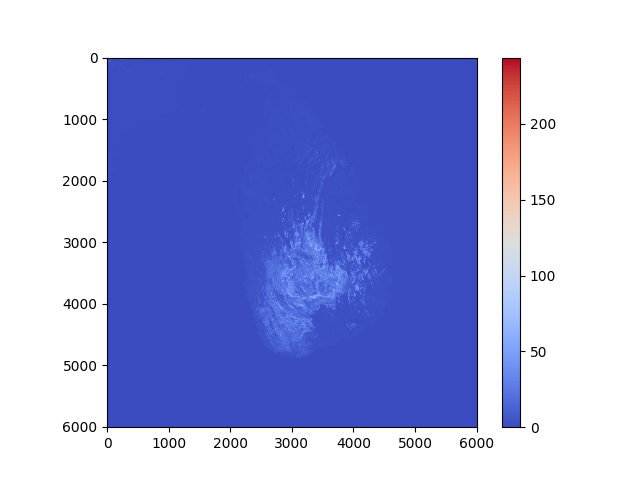
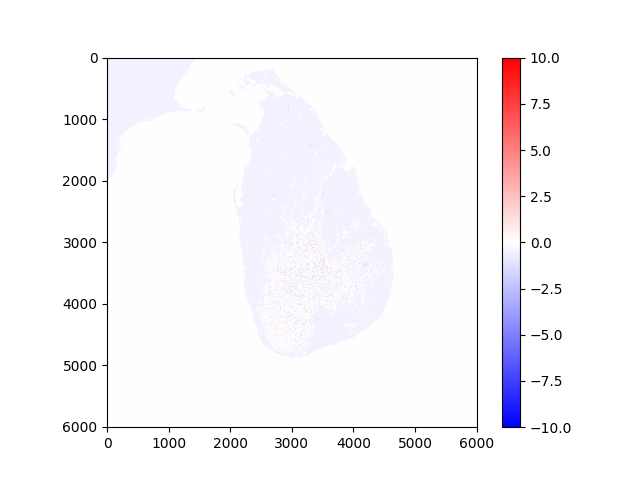
More examples

diff --git a/examples/example2-slope-map.py b/examples/example2-slope-map.py
@@ -1,21 +1,37 @@
-import os
 
 import matplotlib.pyplot as plt
 import numpy as np
-from utils import Log
-from utils_future import Example
+from scipy.ndimage import convolve
+
 from alt_lk import Alt
+from utils_future import Example
 
 
 def main():
     data = Alt.get_alt_data_for_lk()
     arr = np.array(data)
-    grad_x, grad_y = np.gradient(arr)
-    slope = np.sqrt(grad_x**2 + grad_y**2)
+
+    WIDTH = 1
+    N = 2 * WIDTH + 1
+    F2 = 1.0 * (N**2)
+    kernel = np.ones((N, N)) / F2
+
+    padded_arr = np.pad(arr, pad_width=WIDTH)
+    neighborhood_avg = convolve(
+        padded_arr, kernel, 
+    )
+    neighborhood_avg = neighborhood_avg[WIDTH:-WIDTH, WIDTH:-WIDTH]
+    slope = neighborhood_avg - arr 
     
-    plt.imshow(slope, cmap='coolwarm')
+    LIMIT = 10
+    slope[slope > LIMIT] = LIMIT
+    slope[slope < -LIMIT] = -LIMIT
+
+
+    plt.imshow(slope, cmap='bwr')
     plt.colorbar()
     Example.write(__file__)
+
 
 if __name__ == '__main__':
     main()

diff --git a/src/utils_future/Example.py b/src/utils_future/Example.py
@@ -1,20 +1,25 @@
-from utils import Log
 import os
+
 import matplotlib.pyplot as plt
+from utils import Log
 
 log = Log('examples')
 
+
 class Example:
-    @staticmethod 
+    @staticmethod
     def write(py_file_name: str):
         base_name = os.path.basename(py_file_name)
         image_path = os.path.join('examples', f'{base_name}.png')
         plt.savefig(image_path)
         log.info(f'Wrote {image_path}.')
+        os.startfile(image_path)
         plt.close()
 
-        print(f'''
+        print(
+            f'''
 ### [{base_name}](examples/{base_name})
 
 ![{base_name}](examples/{base_name}.png)
-        ''')
+        '''
+        )

diff --git a/examples/example1-map.py b/examples/example1-map.py
@@ -1,11 +1,10 @@
-import os
 
 import matplotlib.pyplot as plt
 import numpy as np
-from utils import Log
-from utils_future import Example
 
 from alt_lk import Alt
+from utils_future import Example
+
 
 def main():
     data = Alt.get_alt_data_for_lk()

diff --git a/src/utils_future/__init__.py b/src/utils_future/__init__.py
@@ -1,3 +1,3 @@
+from utils_future.Example import Example
 from utils_future.File import File
 from utils_future.SparseArrayFile import SparseArrayFile
-from utils_future.Example import Example
